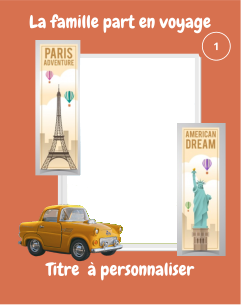
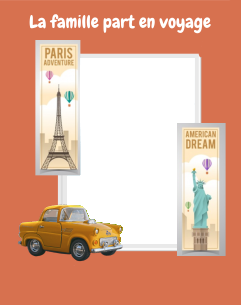
card's name, id and pictures view

diff --git a/assets/styles/card/card.scss b/assets/styles/card/card.scss
@@ -1,0 +1,43 @@
+@import "./assets/styles/app.scss";
+
+.full-card {
+    position: relative;
+    z-index: 0;
+}
+
+.member-name {
+    position: absolute;
+    bottom: 0;
+    color: $light;
+    font-family: 'Chewy', cursive;
+}
+
+.member-photo {
+    position: absolute;
+    bottom: 80px;
+    z-index: -1;
+}
+
+.photo {
+    width: 230px;
+}
+
+.card-number {
+    display: flex;
+    justify-content: center;
+    position: absolute;
+    bottom: 10px;
+    margin-left: 185px;
+    z-index: 1;
+    border-radius: 100%;
+    border: $light solid 2px;
+    color: $light;
+    height: $medium_font * 1;
+    width: $medium_font * 1;
+    text-align: center;
+}
+
+.number {
+    display: inline-block;
+}
+ 

diff --git a/webpack.config.js b/webpack.config.js
@@ -38,6 +38,8 @@ Encore
 
     .addStyleEntry('home', './assets/styles/home/home.scss')
 
+    .addStyleEntry('card', './assets/styles/card/card.scss')
+
     .addStyleEntry('homeAdmin', './assets/styles/admin/homeAdmin.scss')
 
     .addStyleEntry('footer', './assets/styles/footer.scss')

diff --git a/assets/styles/app.scss b/assets/styles/app.scss
@@ -2,6 +2,7 @@
 @import 'variables.scss';
 @import 'navbar.scss';
 @import url('https://fonts.googleapis.com/css2?family=Itim&display=swap');
+@import url('https://fonts.googleapis.com/css2?family=Chewy&display=swap');
 @import "~bootstrap/scss/bootstrap";
 
 $min_width: 320px;

diff --git a/src/Controller/CardController.php b/src/Controller/CardController.php
@@ -1,0 +1,21 @@
+<?php
+
+namespace App\Controller;
+
+use Symfony\Bundle\FrameworkBundle\Controller\AbstractController;
+use Symfony\Component\HttpFoundation\Response;
+use Symfony\Component\Routing\Annotation\Route;
+use App\Repository\MemberRepository;
+
+class CardController extends AbstractController
+{
+    /**
+     * @Route("/carte", name="card")
+     */
+    public function index(MemberRepository $memberRepository): Response
+    {
+        return $this->render('card.html.twig', [
+            'members' => $memberRepository->findAll(),
+        ]);
+    }
+}
